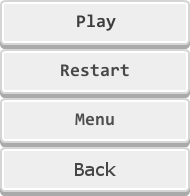
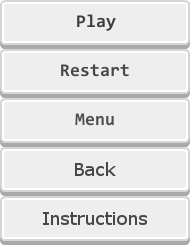
Fixed instruction screen and gameover screen

diff --git a/Scripts/states/over.js b/Scripts/states/over.js
@@ -1,7 +1,8 @@
 var __extends = (this && this.__extends) || function (d, b) {
     for (var p in b) if (b.hasOwnProperty(p)) d[p] = b[p];
     function __() { this.constructor = d; }
-    d.prototype = b === null ? Object.create(b) : (__.prototype = b.prototype, new __());
+    __.prototype = b.prototype;
+    d.prototype = new __();
 };
 var states;
 (function (states) {
@@ -18,14 +19,14 @@ var states;
             console.log("over state started");
             this.background = new gameobject.World(worldSheet, "world");
             this.addChild(this.background);
-            this.gameover = new objects.Label("GAME OVER!!!", "40px Consolas", "#222", 320, 125);
+            this.gameover = new objects.Label("GAME OVER!!!", "40px Consolas", "#EEE", 400, 125);
             this.addChild(this.gameover);
-            this.score = new objects.Label("Your Score: " + score.toString(), "24px Consolas", "#222", 320, 180);
+            this.score = new objects.Label("Your Score: " + pScore.toString(), "24px Consolas", "#EEE", 400, 180);
             this.addChild(this.score);
-            this.againButton = new gameobject.UiButton(uiSheet, "restart", 320, 300);
+            this.againButton = new gameobject.UiButton(uiSheet, "restart", 400, 300);
             this.againButton.on("click", this.playAgain, this);
             this.addChild(this.againButton);
-            this.backButton = new gameobject.UiButton(uiSheet, "menu", 320, 380);
+            this.backButton = new gameobject.UiButton(uiSheet, "menu", 400, 380);
             this.backButton.on("click", this.backMenu, this);
             this.addChild(this.backButton);
             stage.addChild(this);
@@ -37,7 +38,6 @@ var states;
             changeState(config.MENU_STATE);
         };
         Over.prototype.update = function () {
-            this.background.update();
         };
         return Over;
     })(objects.Scene);

diff --git a/Scripts/states/over.ts b/Scripts/states/over.ts
@@ -24,22 +24,21 @@
             this.background = new gameobject.World(worldSheet, "world");
             this.addChild(this.background);
             
-            this.gameover = new objects.Label("GAME OVER!!!", "40px Consolas", "#222", 320, 125);
+            this.gameover = new objects.Label("GAME OVER!!!", "40px Consolas", "#EEE", 400, 125);
             this.addChild(this.gameover);
             
-            this.score = new objects.Label("Your Score: " + score.toString(), "24px Consolas", "#222", 320, 180);
+            this.score = new objects.Label("Your Score: " + pScore.toString(), "24px Consolas", "#EEE", 400, 180);
             this.addChild(this.score);
             
-            this.againButton = new gameobject.UiButton(uiSheet, "restart", 320, 300);
+            this.againButton = new gameobject.UiButton(uiSheet, "restart", 400, 300);
             this.againButton.on("click", this.playAgain, this);
             this.addChild(this.againButton);
             
-            this.backButton = new gameobject.UiButton(uiSheet, "menu", 320, 380);
+            this.backButton = new gameobject.UiButton(uiSheet, "menu", 400, 380);
             this.backButton.on("click", this.backMenu, this);
             this.addChild(this.backButton);
             
             stage.addChild(this);
-            
         }
 
         private playAgain(): void {
@@ -51,7 +50,6 @@
         }
 
         public update(): void {
-           this.background.update();
         }
     }
 

diff --git a/Scripts/states/instruction.js b/Scripts/states/instruction.js
@@ -1,7 +1,8 @@
 var __extends = (this && this.__extends) || function (d, b) {
     for (var p in b) if (b.hasOwnProperty(p)) d[p] = b[p];
     function __() { this.constructor = d; }
-    d.prototype = b === null ? Object.create(b) : (__.prototype = b.prototype, new __());
+    __.prototype = b.prototype;
+    d.prototype = new __();
 };
 var states;
 (function (states) {
@@ -19,9 +20,11 @@ var states;
             this.addChild(this.background);
             this.title = new objects.Label("How to play:", "36px Consolas", "#FFFFFF", 400, 50);
             this.addChild(this.title);
-            this.howTo = new objects.Label("A/D - Rotate ship/n/nW - Move Forward/n/nS - Move Backward/n/nSpace - Fire Weapon", "24px Consolas", "#FFFFFF", 400, 120);
+            this.howTo = new objects.Label("A/D - Rotate ship\n\nW - Move Forward\n\nS - Move Backward\n\nSpace - Fire Weapon", "24px Consolas", "#FFFFFF", 400, 150);
             this.addChild(this.howTo);
-            this.back = new gameobject.UiButton(uiSheet, "back", 400, 400);
+            this.howTo2 = new objects.Label("Destroy the enemy bugs before they\n\ndestroy your control point", "24px Consolas", "#FFFFFF", 400, 275);
+            this.addChild(this.howTo2);
+            this.back = new gameobject.UiButton(uiSheet, "back", 400, 500);
             this.back.on("click", this.startGame, this);
             this.addChild(this.back);
             stage.addChild(this);

diff --git a/Scripts/states/menu.js b/Scripts/states/menu.js
@@ -1,7 +1,8 @@
 var __extends = (this && this.__extends) || function (d, b) {
     for (var p in b) if (b.hasOwnProperty(p)) d[p] = b[p];
     function __() { this.constructor = d; }
-    d.prototype = b === null ? Object.create(b) : (__.prototype = b.prototype, new __());
+    __.prototype = b.prototype;
+    d.prototype = new __();
 };
 var states;
 (function (states) {
@@ -21,8 +22,8 @@ var states;
             this.addChild(this.title);
             this.howTo = new objects.Label("Destroy all the bugs before\n\nthey destroy your control point!", "24px Consolas", "#FFFFFF", 400, 120);
             this.addChild(this.howTo);
-            this.instr = new gameobject.UiButton(uiSheet, "back", 400, 500);
-            this.instr.on("instruction", this.instruction, this);
+            this.instr = new gameobject.UiButton(uiSheet, "instruction", 400, 500);
+            this.instr.on("click", this.instruction, this);
             this.addChild(this.instr);
             this.play = new gameobject.UiButton(uiSheet, "play", 400, 400);
             this.play.on("click", this.startGame, this);
@@ -30,6 +31,7 @@ var states;
             stage.addChild(this);
         };
         Menu.prototype.instruction = function () {
+            console.log("Instruction Button Hit");
             changeState(config.INSTRC_STATE);
         };
         Menu.prototype.startGame = function () {

diff --git a/Scripts/states/instruction.ts b/Scripts/states/instruction.ts
@@ -5,6 +5,7 @@ module states {
 
         private title: objects.Label;
         private howTo: objects.Label;
+        private howTo2: objects.Label;
 
         private background: gameobject.World;
         
@@ -25,10 +26,13 @@ module states {
             this.title = new objects.Label("How to play:", "36px Consolas", "#FFFFFF", 400, 50);
             this.addChild(this.title);
             
-            this.howTo = new objects.Label("A/D - Rotate ship/n/nW - Move Forward/n/nS - Move Backward/n/nSpace - Fire Weapon", "24px Consolas" ,"#FFFFFF", 400, 120);
+            this.howTo = new objects.Label("A/D - Rotate ship\n\nW - Move Forward\n\nS - Move Backward\n\nSpace - Fire Weapon", "24px Consolas" ,"#FFFFFF", 400, 150);
             this.addChild(this.howTo);
             
-            this.back = new gameobject.UiButton(uiSheet, "back", 400, 400);
+            this.howTo2 = new objects.Label("Destroy the enemy bugs before they\n\ndestroy your control point!", "24px Consolas", "#FFFFFF", 400, 275);
+            this.addChild(this.howTo2);
+            
+            this.back = new gameobject.UiButton(uiSheet, "back", 400, 500);
             this.back.on("click", this.startGame, this);
             this.addChild(this.back);
             

diff --git a/Scripts/core/game.js b/Scripts/core/game.js
@@ -12,6 +12,7 @@
 /// <reference path="../states/over.ts" />
 /// <reference path="../states/game.ts" />
 /// <reference path="../states/menu.ts" />
+/// <reference path="../states/instruction.ts" />
 /// <reference path="../gameobjects/UiButton.ts" />
 /// <reference path="../gameobjects/bullet.ts" />
 /// <reference path="../gameobjects/enemy.ts" />
@@ -25,6 +26,7 @@ var stage;
 var stats;
 var state;
 var currentState; // alias for our current state
+var pScore;
 // GAME OBJECTS
 var menu;
 var game;
@@ -177,12 +179,14 @@ var uiData = {
         [0, 49, 190, 49, 0, 0, 0],
         [0, 98, 190, 49, 0, 0, 0],
         [0, 146, 190, 49, 0, 0, 0],
+        [0, 195, 190, 49, 0, 0, 0],
     ],
     "animations": {
         "play": [0],
         "restart": [1],
         "menu": [2],
         "back": [3],
+        "instruction": [4],
     },
 };
 function preload() {

diff --git a/Scripts/states/menu.ts b/Scripts/states/menu.ts
@@ -29,8 +29,8 @@
             this.howTo = new objects.Label("Destroy all the bugs before\n\nthey destroy your control point!", "24px Consolas" ,"#FFFFFF", 400, 120);
             this.addChild(this.howTo);
             
-            this.instr = new gameobject.UiButton(uiSheet, "back", 400, 500);
-            this.instr.on("instruction", this.instruction, this);
+            this.instr = new gameobject.UiButton(uiSheet, "instruction", 400, 500);
+            this.instr.on("click", this.instruction, this);
             this.addChild(this.instr);
             
             this.play = new gameobject.UiButton(uiSheet, "play", 400, 400);
@@ -41,6 +41,7 @@
         }
 
         private instruction() : void {
+            console.log("Instruction Button Hit");
             changeState(config.INSTRC_STATE);
         }
 

diff --git a/Scripts/core/game.ts b/Scripts/core/game.ts
@@ -15,6 +15,7 @@
 /// <reference path="../states/over.ts" />
 /// <reference path="../states/game.ts" />
 /// <reference path="../states/menu.ts" />
+/// <reference path="../states/instruction.ts" />
 
 /// <reference path="../gameobjects/UiButton.ts" />
 /// <reference path="../gameobjects/bullet.ts" />
@@ -30,6 +31,7 @@ var stage: createjs.Stage;
 var stats: Stats;
 var state: number;
 var currentState: objects.Scene; // alias for our current state
+var pScore: number;
 
 // GAME OBJECTS
 var menu: states.Menu;
@@ -226,6 +228,7 @@ var uiData = {
     [0,49,190,49,0,0,0],
     [0,98,190,49,0,0,0],
     [0,146,190,49,0,0,0],
+    [0,195,190,49,0,0,0],
   ],
   
   "animations": {
@@ -233,6 +236,7 @@ var uiData = {
     "restart": [1],
     "menu": [2],
     "back": [3],
+    "instruction": [4],
   },
 };
 

diff --git a/Scripts/states/game.js b/Scripts/states/game.js
@@ -1,7 +1,8 @@
 var __extends = (this && this.__extends) || function (d, b) {
     for (var p in b) if (b.hasOwnProperty(p)) d[p] = b[p];
     function __() { this.constructor = d; }
-    d.prototype = b === null ? Object.create(b) : (__.prototype = b.prototype, new __());
+    __.prototype = b.prototype;
+    d.prototype = new __();
 };
 var states;
 (function (states) {
@@ -95,6 +96,8 @@ var states;
                 this.cLives.text = "GAME OVER";
                 this.pLives.text = "GAME OVER";
                 this.score.text = "GAME OVER";
+                pScore = this.player.getScore();
+                changeState(config.OVER_STATE);
             }
             else {
                 this.cLives.text = "Computer Lives: " + this.compLives;

diff --git a/Scripts/gameobjects/UiButton.js b/Scripts/gameobjects/UiButton.js
@@ -1,7 +1,8 @@
 var __extends = (this && this.__extends) || function (d, b) {
     for (var p in b) if (b.hasOwnProperty(p)) d[p] = b[p];
     function __() { this.constructor = d; }
-    d.prototype = b === null ? Object.create(b) : (__.prototype = b.prototype, new __());
+    __.prototype = b.prototype;
+    d.prototype = new __();
 };
 var gameobject;
 (function (gameobject) {

diff --git a/Scripts/gameobjects/bullet.js b/Scripts/gameobjects/bullet.js
@@ -1,7 +1,8 @@
 var __extends = (this && this.__extends) || function (d, b) {
     for (var p in b) if (b.hasOwnProperty(p)) d[p] = b[p];
     function __() { this.constructor = d; }
-    d.prototype = b === null ? Object.create(b) : (__.prototype = b.prototype, new __());
+    __.prototype = b.prototype;
+    d.prototype = new __();
 };
 var gameobject;
 (function (gameobject) {

diff --git a/Scripts/gameobjects/controlpoint.js b/Scripts/gameobjects/controlpoint.js
@@ -1,7 +1,8 @@
 var __extends = (this && this.__extends) || function (d, b) {
     for (var p in b) if (b.hasOwnProperty(p)) d[p] = b[p];
     function __() { this.constructor = d; }
-    d.prototype = b === null ? Object.create(b) : (__.prototype = b.prototype, new __());
+    __.prototype = b.prototype;
+    d.prototype = new __();
 };
 var gameobject;
 (function (gameobject) {
